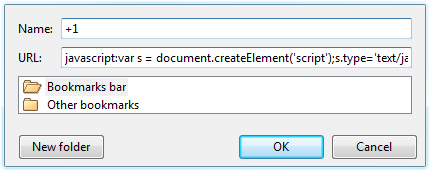
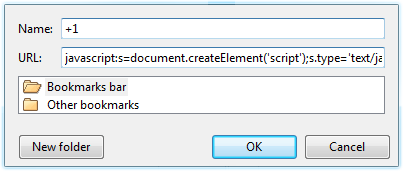
added webkitUserSelect='none' improved mages

diff --git a/medium_(close_button).js b/medium_(close_button).js
@@ -1,1 +1,1 @@
-if(mpo=document.getElementById('myplusone'))mpo.style.display=(mpo.style.display=='block'?'none':'block');else{bgs="background:rgb(174,188,191);background:-moz-linear-gradient(top,rgba(174,188,191,1)0%,rgba(110,119,116,1)50%,rgba(10,14,10,1)51%,rgba(10,8,9,1)100%);background:-webkit-gradient(linear,left top,left bottom,color-stop(0%,rgba(174,188,191,1)),color-stop(50%,rgba(110,119,116,1)),color-stop(51%,rgba(10,14,10,1)),color-stop(100%,rgba(10,8,9,1)));background:-webkit-linear-gradient(top,rgba(174,188,191,1)0%,rgba(110,119,116,1)50%,rgba(10,14,10,1)51%,rgba(10,8,9,1)100%);background:-o-linear-gradient(top,rgba(174,188,191,1)0%,rgba(110,119,116,1)50%,rgba(10,14,10,1)51%,rgba(10,8,9,1)100%);background:-ms-linear-gradient(top,rgba(174,188,191,1)0%,rgba(110,119,116,1)50%,rgba(10,14,10,1)51%,rgba(10,8,9,1)100%);filter:progid:DXImageTransform.Microsoft.gradient(startColorstr='#aebcbf',endColorstr='#0a0809',GradientType=0);background:linear-gradient(top,rgba(174,188,191,1)0%,rgba(110,119,116,1)50%,rgba(10,14,10,1)51%,rgba(10,8,9,1)100%);";bgsx="background:rgb(243,197,189);background:-moz-linear-gradient(top,rgba(243,197,189,1)0%,rgba(232,108,87,1)50%,rgba(234,40,3,1)51%,rgba(255,102,0,1)75%,rgba(199,34,0,1)100%);background:-webkit-gradient(linear,left top,left bottom,color-stop(0%,rgba(243,197,189,1)),color-stop(50%,rgba(232,108,87,1)),color-stop(51%,rgba(234,40,3,1)),color-stop(75%,rgba(255,102,0,1)),color-stop(100%,rgba(199,34,0,1)));background:-webkit-linear-gradient(top,rgba(243,197,189,1)0%,rgba(232,108,87,1)50%,rgba(234,40,3,1)51%,rgba(255,102,0,1)75%,rgba(199,34,0,1)100%);background:-o-linear-gradient(top,rgba(243,197,189,1)0%,rgba(232,108,87,1)50%,rgba(234,40,3,1)51%,rgba(255,102,0,1)75%,rgba(199,34,0,1)100%);background:-ms-linear-gradient(top,rgba(243,197,189,1)0%,rgba(232,108,87,1)50%,rgba(234,40,3,1)51%,rgba(255,102,0,1)75%,rgba(199,34,0,1)100%);filter:progid:DXImageTransform.Microsoft.gradient(startColorstr='#f3c5bd',endColorstr='#c72200',GradientType=0);background:linear-gradient(top,rgba(243,197,189,1)0%,rgba(232,108,87,1)50%,rgba(234,40,3,1)51%,rgba(255,102,0,1)75%,rgba(199,34,0,1)100%);";div=document.createElement('div');div.id='myplusone';div.style.cssText=bgs;div.style.display='block';div.style.position='fixed';div.style.top='8px';div.style.right='8px';div.style.zIndex='9999';div.style.padding='5px';e=document.createElement('g:plusone');e.setAttribute('size','medium');div.appendChild(e);x=document.createElement('div');x.style.cssText=bgsx;x.style.fontFamily='Arial';x.style.color='#FFFFFF';x.style.border='1px solid #FFFFFF';x.style.fontSize='12px';x.style.position='fixed';x.style.top='0px';x.style.right='0px';x.style.fontWeight='bold';x.style.cursor='pointer';x.innerHTML='x';x.onclick=function(){div.style.display='none';};div.appendChild(x);document.body.appendChild(div);e=window.document.createElement('script');e.setAttribute('src','https://apis.google.com/js/plusone.js');e.innerHTML='{lang: \'en-GB\'}';document.head.appendChild(e);}
+if(mpo=document.getElementById('myplusone'))mpo.style.display=(mpo.style.display=='block'?'none':'block');else{bgs="background:rgb(174,188,191);background:-moz-linear-gradient(top,rgba(174,188,191,1)0%,rgba(110,119,116,1)50%,rgba(10,14,10,1)51%,rgba(10,8,9,1)100%);background:-webkit-gradient(linear,left top,left bottom,color-stop(0%,rgba(174,188,191,1)),color-stop(50%,rgba(110,119,116,1)),color-stop(51%,rgba(10,14,10,1)),color-stop(100%,rgba(10,8,9,1)));background:-webkit-linear-gradient(top,rgba(174,188,191,1)0%,rgba(110,119,116,1)50%,rgba(10,14,10,1)51%,rgba(10,8,9,1)100%);background:-o-linear-gradient(top,rgba(174,188,191,1)0%,rgba(110,119,116,1)50%,rgba(10,14,10,1)51%,rgba(10,8,9,1)100%);background:-ms-linear-gradient(top,rgba(174,188,191,1)0%,rgba(110,119,116,1)50%,rgba(10,14,10,1)51%,rgba(10,8,9,1)100%);filter:progid:DXImageTransform.Microsoft.gradient(startColorstr='#aebcbf',endColorstr='#0a0809',GradientType=0);background:linear-gradient(top,rgba(174,188,191,1)0%,rgba(110,119,116,1)50%,rgba(10,14,10,1)51%,rgba(10,8,9,1)100%);";bgsx="background:rgb(243,197,189);background:-moz-linear-gradient(top,rgba(243,197,189,1)0%,rgba(232,108,87,1)50%,rgba(234,40,3,1)51%,rgba(255,102,0,1)75%,rgba(199,34,0,1)100%);background:-webkit-gradient(linear,left top,left bottom,color-stop(0%,rgba(243,197,189,1)),color-stop(50%,rgba(232,108,87,1)),color-stop(51%,rgba(234,40,3,1)),color-stop(75%,rgba(255,102,0,1)),color-stop(100%,rgba(199,34,0,1)));background:-webkit-linear-gradient(top,rgba(243,197,189,1)0%,rgba(232,108,87,1)50%,rgba(234,40,3,1)51%,rgba(255,102,0,1)75%,rgba(199,34,0,1)100%);background:-o-linear-gradient(top,rgba(243,197,189,1)0%,rgba(232,108,87,1)50%,rgba(234,40,3,1)51%,rgba(255,102,0,1)75%,rgba(199,34,0,1)100%);background:-ms-linear-gradient(top,rgba(243,197,189,1)0%,rgba(232,108,87,1)50%,rgba(234,40,3,1)51%,rgba(255,102,0,1)75%,rgba(199,34,0,1)100%);filter:progid:DXImageTransform.Microsoft.gradient(startColorstr='#f3c5bd',endColorstr='#c72200',GradientType=0);background:linear-gradient(top,rgba(243,197,189,1)0%,rgba(232,108,87,1)50%,rgba(234,40,3,1)51%,rgba(255,102,0,1)75%,rgba(199,34,0,1)100%);";div=document.createElement('div');div.id='myplusone';div.style.cssText=bgs;div.style.display='block';div.style.position='fixed';div.style.top='8px';div.style.right='8px';div.style.zIndex='9999';div.style.padding='5px';div.style.webkitUserSelect='none';e=document.createElement('g:plusone');e.setAttribute('size','medium');div.appendChild(e);x=document.createElement('div');x.style.cssText=bgsx;x.style.fontFamily='Arial';x.style.color='#FFFFFF';x.style.border='1px solid #FFFFFF';x.style.fontSize='12px';x.style.position='fixed';x.style.top='0px';x.style.right='0px';x.style.fontWeight='bold';x.style.cursor='pointer';x.innerHTML='x';x.onclick=function(){div.style.display='none';};div.appendChild(x);document.body.appendChild(div);e=window.document.createElement('script');e.setAttribute('src','https://apis.google.com/js/plusone.js');e.innerHTML='{lang: \'en-GB\'}';document.head.appendChild(e);}

diff --git a/small_(close_button).js b/small_(close_button).js
@@ -1,1 +1,1 @@
-if(mpo=document.getElementById('myplusone'))mpo.style.display=(mpo.style.display=='block'?'none':'block');else{bgs="background:rgb(174,188,191);background:-moz-linear-gradient(top,rgba(174,188,191,1)0%,rgba(110,119,116,1)50%,rgba(10,14,10,1)51%,rgba(10,8,9,1)100%);background:-webkit-gradient(linear,left top,left bottom,color-stop(0%,rgba(174,188,191,1)),color-stop(50%,rgba(110,119,116,1)),color-stop(51%,rgba(10,14,10,1)),color-stop(100%,rgba(10,8,9,1)));background:-webkit-linear-gradient(top,rgba(174,188,191,1)0%,rgba(110,119,116,1)50%,rgba(10,14,10,1)51%,rgba(10,8,9,1)100%);background:-o-linear-gradient(top,rgba(174,188,191,1)0%,rgba(110,119,116,1)50%,rgba(10,14,10,1)51%,rgba(10,8,9,1)100%);background:-ms-linear-gradient(top,rgba(174,188,191,1)0%,rgba(110,119,116,1)50%,rgba(10,14,10,1)51%,rgba(10,8,9,1)100%);filter:progid:DXImageTransform.Microsoft.gradient(startColorstr='#aebcbf',endColorstr='#0a0809',GradientType=0);background:linear-gradient(top,rgba(174,188,191,1)0%,rgba(110,119,116,1)50%,rgba(10,14,10,1)51%,rgba(10,8,9,1)100%);";bgsx="background:rgb(243,197,189);background:-moz-linear-gradient(top,rgba(243,197,189,1)0%,rgba(232,108,87,1)50%,rgba(234,40,3,1)51%,rgba(255,102,0,1)75%,rgba(199,34,0,1)100%);background:-webkit-gradient(linear,left top,left bottom,color-stop(0%,rgba(243,197,189,1)),color-stop(50%,rgba(232,108,87,1)),color-stop(51%,rgba(234,40,3,1)),color-stop(75%,rgba(255,102,0,1)),color-stop(100%,rgba(199,34,0,1)));background:-webkit-linear-gradient(top,rgba(243,197,189,1)0%,rgba(232,108,87,1)50%,rgba(234,40,3,1)51%,rgba(255,102,0,1)75%,rgba(199,34,0,1)100%);background:-o-linear-gradient(top,rgba(243,197,189,1)0%,rgba(232,108,87,1)50%,rgba(234,40,3,1)51%,rgba(255,102,0,1)75%,rgba(199,34,0,1)100%);background:-ms-linear-gradient(top,rgba(243,197,189,1)0%,rgba(232,108,87,1)50%,rgba(234,40,3,1)51%,rgba(255,102,0,1)75%,rgba(199,34,0,1)100%);filter:progid:DXImageTransform.Microsoft.gradient(startColorstr='#f3c5bd',endColorstr='#c72200',GradientType=0);background:linear-gradient(top,rgba(243,197,189,1)0%,rgba(232,108,87,1)50%,rgba(234,40,3,1)51%,rgba(255,102,0,1)75%,rgba(199,34,0,1)100%);";div=document.createElement('div');div.id='myplusone';div.style.cssText=bgs;div.style.display='block';div.style.position='fixed';div.style.top='8px';div.style.right='8px';div.style.zIndex='9999';div.style.padding='5px';e=document.createElement('g:plusone');e.setAttribute('size','small');div.appendChild(e);x=document.createElement('div');x.style.cssText=bgsx;x.style.fontFamily='Arial';x.style.color='#FFFFFF';x.style.border='1px solid #FFFFFF';x.style.fontSize='12px';x.style.position='fixed';x.style.top='0px';x.style.right='0px';x.style.fontWeight='bold';x.style.cursor='pointer';x.innerHTML='x';x.onclick=function(){div.style.display='none';};div.appendChild(x);document.body.appendChild(div);e=window.document.createElement('script');e.setAttribute('src','https://apis.google.com/js/plusone.js');e.innerHTML='{lang: \'en-GB\'}';document.head.appendChild(e);};
+if(mpo=document.getElementById('myplusone'))mpo.style.display=(mpo.style.display=='block'?'none':'block');else{bgs="background:rgb(174,188,191);background:-moz-linear-gradient(top,rgba(174,188,191,1)0%,rgba(110,119,116,1)50%,rgba(10,14,10,1)51%,rgba(10,8,9,1)100%);background:-webkit-gradient(linear,left top,left bottom,color-stop(0%,rgba(174,188,191,1)),color-stop(50%,rgba(110,119,116,1)),color-stop(51%,rgba(10,14,10,1)),color-stop(100%,rgba(10,8,9,1)));background:-webkit-linear-gradient(top,rgba(174,188,191,1)0%,rgba(110,119,116,1)50%,rgba(10,14,10,1)51%,rgba(10,8,9,1)100%);background:-o-linear-gradient(top,rgba(174,188,191,1)0%,rgba(110,119,116,1)50%,rgba(10,14,10,1)51%,rgba(10,8,9,1)100%);background:-ms-linear-gradient(top,rgba(174,188,191,1)0%,rgba(110,119,116,1)50%,rgba(10,14,10,1)51%,rgba(10,8,9,1)100%);filter:progid:DXImageTransform.Microsoft.gradient(startColorstr='#aebcbf',endColorstr='#0a0809',GradientType=0);background:linear-gradient(top,rgba(174,188,191,1)0%,rgba(110,119,116,1)50%,rgba(10,14,10,1)51%,rgba(10,8,9,1)100%);";bgsx="background:rgb(243,197,189);background:-moz-linear-gradient(top,rgba(243,197,189,1)0%,rgba(232,108,87,1)50%,rgba(234,40,3,1)51%,rgba(255,102,0,1)75%,rgba(199,34,0,1)100%);background:-webkit-gradient(linear,left top,left bottom,color-stop(0%,rgba(243,197,189,1)),color-stop(50%,rgba(232,108,87,1)),color-stop(51%,rgba(234,40,3,1)),color-stop(75%,rgba(255,102,0,1)),color-stop(100%,rgba(199,34,0,1)));background:-webkit-linear-gradient(top,rgba(243,197,189,1)0%,rgba(232,108,87,1)50%,rgba(234,40,3,1)51%,rgba(255,102,0,1)75%,rgba(199,34,0,1)100%);background:-o-linear-gradient(top,rgba(243,197,189,1)0%,rgba(232,108,87,1)50%,rgba(234,40,3,1)51%,rgba(255,102,0,1)75%,rgba(199,34,0,1)100%);background:-ms-linear-gradient(top,rgba(243,197,189,1)0%,rgba(232,108,87,1)50%,rgba(234,40,3,1)51%,rgba(255,102,0,1)75%,rgba(199,34,0,1)100%);filter:progid:DXImageTransform.Microsoft.gradient(startColorstr='#f3c5bd',endColorstr='#c72200',GradientType=0);background:linear-gradient(top,rgba(243,197,189,1)0%,rgba(232,108,87,1)50%,rgba(234,40,3,1)51%,rgba(255,102,0,1)75%,rgba(199,34,0,1)100%);";div=document.createElement('div');div.id='myplusone';div.style.cssText=bgs;div.style.display='block';div.style.position='fixed';div.style.top='8px';div.style.right='8px';div.style.zIndex='9999';div.style.padding='5px';div.style.webkitUserSelect='none';e=document.createElement('g:plusone');e.setAttribute('size','small');div.appendChild(e);x=document.createElement('div');x.style.cssText=bgsx;x.style.fontFamily='Arial';x.style.color='#FFFFFF';x.style.border='1px solid #FFFFFF';x.style.fontSize='12px';x.style.position='fixed';x.style.top='0px';x.style.right='0px';x.style.fontWeight='bold';x.style.cursor='pointer';x.innerHTML='x';x.onclick=function(){div.style.display='none';};div.appendChild(x);document.body.appendChild(div);e=window.document.createElement('script');e.setAttribute('src','https://apis.google.com/js/plusone.js');e.innerHTML='{lang: \'en-GB\'}';document.head.appendChild(e);};

diff --git a/tall_(close_button).js b/tall_(close_button).js
@@ -1,1 +1,1 @@
-if(mpo=document.getElementById('myplusone'))mpo.style.display=(mpo.style.display=='block'?'none':'block');else{bgs="background:rgb(174,188,191);background:-moz-linear-gradient(top,rgba(174,188,191,1)0%,rgba(110,119,116,1)50%,rgba(10,14,10,1)51%,rgba(10,8,9,1)100%);background:-webkit-gradient(linear,left top,left bottom,color-stop(0%,rgba(174,188,191,1)),color-stop(50%,rgba(110,119,116,1)),color-stop(51%,rgba(10,14,10,1)),color-stop(100%,rgba(10,8,9,1)));background:-webkit-linear-gradient(top,rgba(174,188,191,1)0%,rgba(110,119,116,1)50%,rgba(10,14,10,1)51%,rgba(10,8,9,1)100%);background:-o-linear-gradient(top,rgba(174,188,191,1)0%,rgba(110,119,116,1)50%,rgba(10,14,10,1)51%,rgba(10,8,9,1)100%);background:-ms-linear-gradient(top,rgba(174,188,191,1)0%,rgba(110,119,116,1)50%,rgba(10,14,10,1)51%,rgba(10,8,9,1)100%);filter:progid:DXImageTransform.Microsoft.gradient(startColorstr='#aebcbf',endColorstr='#0a0809',GradientType=0);background:linear-gradient(top,rgba(174,188,191,1)0%,rgba(110,119,116,1)50%,rgba(10,14,10,1)51%,rgba(10,8,9,1)100%);";bgsx="background:rgb(243,197,189);background:-moz-linear-gradient(top,rgba(243,197,189,1)0%,rgba(232,108,87,1)50%,rgba(234,40,3,1)51%,rgba(255,102,0,1)75%,rgba(199,34,0,1)100%);background:-webkit-gradient(linear,left top,left bottom,color-stop(0%,rgba(243,197,189,1)),color-stop(50%,rgba(232,108,87,1)),color-stop(51%,rgba(234,40,3,1)),color-stop(75%,rgba(255,102,0,1)),color-stop(100%,rgba(199,34,0,1)));background:-webkit-linear-gradient(top,rgba(243,197,189,1)0%,rgba(232,108,87,1)50%,rgba(234,40,3,1)51%,rgba(255,102,0,1)75%,rgba(199,34,0,1)100%);background:-o-linear-gradient(top,rgba(243,197,189,1)0%,rgba(232,108,87,1)50%,rgba(234,40,3,1)51%,rgba(255,102,0,1)75%,rgba(199,34,0,1)100%);background:-ms-linear-gradient(top,rgba(243,197,189,1)0%,rgba(232,108,87,1)50%,rgba(234,40,3,1)51%,rgba(255,102,0,1)75%,rgba(199,34,0,1)100%);filter:progid:DXImageTransform.Microsoft.gradient(startColorstr='#f3c5bd',endColorstr='#c72200',GradientType=0);background:linear-gradient(top,rgba(243,197,189,1)0%,rgba(232,108,87,1)50%,rgba(234,40,3,1)51%,rgba(255,102,0,1)75%,rgba(199,34,0,1)100%);";div=document.createElement('div');div.id='myplusone';div.style.cssText=bgs;div.style.display='block';div.style.position='fixed';div.style.top='8px';div.style.right='8px';div.style.zIndex='9999';div.style.padding='5px';e=document.createElement('g:plusone');e.setAttribute('size','tall');div.appendChild(e);x=document.createElement('div');x.style.cssText=bgsx;x.style.fontFamily='Arial';x.style.color='#FFFFFF';x.style.border='1px solid #FFFFFF';x.style.fontSize='12px';x.style.position='fixed';x.style.top='0px';x.style.right='0px';x.style.fontWeight='bold';x.style.cursor='pointer';x.innerHTML='x';x.onclick=function(){div.style.display='none';};div.appendChild(x);document.body.appendChild(div);e=window.document.createElement('script');e.setAttribute('src','https://apis.google.com/js/plusone.js');e.innerHTML='{lang: \'en-GB\'}';document.head.appendChild(e);};
+if(mpo=document.getElementById('myplusone'))mpo.style.display=(mpo.style.display=='block'?'none':'block');else{bgs="background:rgb(174,188,191);background:-moz-linear-gradient(top,rgba(174,188,191,1)0%,rgba(110,119,116,1)50%,rgba(10,14,10,1)51%,rgba(10,8,9,1)100%);background:-webkit-gradient(linear,left top,left bottom,color-stop(0%,rgba(174,188,191,1)),color-stop(50%,rgba(110,119,116,1)),color-stop(51%,rgba(10,14,10,1)),color-stop(100%,rgba(10,8,9,1)));background:-webkit-linear-gradient(top,rgba(174,188,191,1)0%,rgba(110,119,116,1)50%,rgba(10,14,10,1)51%,rgba(10,8,9,1)100%);background:-o-linear-gradient(top,rgba(174,188,191,1)0%,rgba(110,119,116,1)50%,rgba(10,14,10,1)51%,rgba(10,8,9,1)100%);background:-ms-linear-gradient(top,rgba(174,188,191,1)0%,rgba(110,119,116,1)50%,rgba(10,14,10,1)51%,rgba(10,8,9,1)100%);filter:progid:DXImageTransform.Microsoft.gradient(startColorstr='#aebcbf',endColorstr='#0a0809',GradientType=0);background:linear-gradient(top,rgba(174,188,191,1)0%,rgba(110,119,116,1)50%,rgba(10,14,10,1)51%,rgba(10,8,9,1)100%);";bgsx="background:rgb(243,197,189);background:-moz-linear-gradient(top,rgba(243,197,189,1)0%,rgba(232,108,87,1)50%,rgba(234,40,3,1)51%,rgba(255,102,0,1)75%,rgba(199,34,0,1)100%);background:-webkit-gradient(linear,left top,left bottom,color-stop(0%,rgba(243,197,189,1)),color-stop(50%,rgba(232,108,87,1)),color-stop(51%,rgba(234,40,3,1)),color-stop(75%,rgba(255,102,0,1)),color-stop(100%,rgba(199,34,0,1)));background:-webkit-linear-gradient(top,rgba(243,197,189,1)0%,rgba(232,108,87,1)50%,rgba(234,40,3,1)51%,rgba(255,102,0,1)75%,rgba(199,34,0,1)100%);background:-o-linear-gradient(top,rgba(243,197,189,1)0%,rgba(232,108,87,1)50%,rgba(234,40,3,1)51%,rgba(255,102,0,1)75%,rgba(199,34,0,1)100%);background:-ms-linear-gradient(top,rgba(243,197,189,1)0%,rgba(232,108,87,1)50%,rgba(234,40,3,1)51%,rgba(255,102,0,1)75%,rgba(199,34,0,1)100%);filter:progid:DXImageTransform.Microsoft.gradient(startColorstr='#f3c5bd',endColorstr='#c72200',GradientType=0);background:linear-gradient(top,rgba(243,197,189,1)0%,rgba(232,108,87,1)50%,rgba(234,40,3,1)51%,rgba(255,102,0,1)75%,rgba(199,34,0,1)100%);";div=document.createElement('div');div.id='myplusone';div.style.cssText=bgs;div.style.display='block';div.style.position='fixed';div.style.top='8px';div.style.right='8px';div.style.zIndex='9999';div.style.padding='5px';div.style.webkitUserSelect='none';e=document.createElement('g:plusone');e.setAttribute('size','tall');div.appendChild(e);x=document.createElement('div');x.style.cssText=bgsx;x.style.fontFamily='Arial';x.style.color='#FFFFFF';x.style.border='1px solid #FFFFFF';x.style.fontSize='12px';x.style.position='fixed';x.style.top='0px';x.style.right='0px';x.style.fontWeight='bold';x.style.cursor='pointer';x.innerHTML='x';x.onclick=function(){div.style.display='none';};div.appendChild(x);document.body.appendChild(div);e=window.document.createElement('script');e.setAttribute('src','https://apis.google.com/js/plusone.js');e.innerHTML='{lang: \'en-GB\'}';document.head.appendChild(e);};

diff --git a/standard_(close_button).js b/standard_(close_button).js
@@ -1,1 +1,1 @@
-if(mpo=document.getElementById('myplusone'))mpo.style.display=(mpo.style.display=='block'?'none':'block');else{bgs="background:rgb(174,188,191);background:-moz-linear-gradient(top,rgba(174,188,191,1)0%,rgba(110,119,116,1)50%,rgba(10,14,10,1)51%,rgba(10,8,9,1)100%);background:-webkit-gradient(linear,left top,left bottom,color-stop(0%,rgba(174,188,191,1)),color-stop(50%,rgba(110,119,116,1)),color-stop(51%,rgba(10,14,10,1)),color-stop(100%,rgba(10,8,9,1)));background:-webkit-linear-gradient(top,rgba(174,188,191,1)0%,rgba(110,119,116,1)50%,rgba(10,14,10,1)51%,rgba(10,8,9,1)100%);background:-o-linear-gradient(top,rgba(174,188,191,1)0%,rgba(110,119,116,1)50%,rgba(10,14,10,1)51%,rgba(10,8,9,1)100%);background:-ms-linear-gradient(top,rgba(174,188,191,1)0%,rgba(110,119,116,1)50%,rgba(10,14,10,1)51%,rgba(10,8,9,1)100%);filter:progid:DXImageTransform.Microsoft.gradient(startColorstr='#aebcbf',endColorstr='#0a0809',GradientType=0);background:linear-gradient(top,rgba(174,188,191,1)0%,rgba(110,119,116,1)50%,rgba(10,14,10,1)51%,rgba(10,8,9,1)100%);";bgsx="background:rgb(243,197,189);background:-moz-linear-gradient(top,rgba(243,197,189,1)0%,rgba(232,108,87,1)50%,rgba(234,40,3,1)51%,rgba(255,102,0,1)75%,rgba(199,34,0,1)100%);background:-webkit-gradient(linear,left top,left bottom,color-stop(0%,rgba(243,197,189,1)),color-stop(50%,rgba(232,108,87,1)),color-stop(51%,rgba(234,40,3,1)),color-stop(75%,rgba(255,102,0,1)),color-stop(100%,rgba(199,34,0,1)));background:-webkit-linear-gradient(top,rgba(243,197,189,1)0%,rgba(232,108,87,1)50%,rgba(234,40,3,1)51%,rgba(255,102,0,1)75%,rgba(199,34,0,1)100%);background:-o-linear-gradient(top,rgba(243,197,189,1)0%,rgba(232,108,87,1)50%,rgba(234,40,3,1)51%,rgba(255,102,0,1)75%,rgba(199,34,0,1)100%);background:-ms-linear-gradient(top,rgba(243,197,189,1)0%,rgba(232,108,87,1)50%,rgba(234,40,3,1)51%,rgba(255,102,0,1)75%,rgba(199,34,0,1)100%);filter:progid:DXImageTransform.Microsoft.gradient(startColorstr='#f3c5bd',endColorstr='#c72200',GradientType=0);background:linear-gradient(top,rgba(243,197,189,1)0%,rgba(232,108,87,1)50%,rgba(234,40,3,1)51%,rgba(255,102,0,1)75%,rgba(199,34,0,1)100%);";div=document.createElement('div');div.id='myplusone';div.style.cssText=bgs;div.style.display='block';div.style.position='fixed';div.style.top='8px';div.style.right='8px';div.style.zIndex='9999';div.style.padding='5px';e=document.createElement('g:plusone');div.appendChild(e);x=document.createElement('div');x.style.cssText=bgsx;x.style.fontFamily='Arial';x.style.color='#FFFFFF';x.style.border='1px solid #FFFFFF';x.style.fontSize='12px';x.style.position='fixed';x.style.top='0px';x.style.right='0px';x.style.fontWeight='bold';x.style.cursor='pointer';x.innerHTML='x';x.onclick=function(){div.style.display='none';};div.appendChild(x);document.body.appendChild(div);e=window.document.createElement('script');e.setAttribute('src','https://apis.google.com/js/plusone.js');e.innerHTML='{lang: \'en-GB\'}';document.head.appendChild(e);};
+if(mpo=document.getElementById('myplusone'))mpo.style.display=(mpo.style.display=='block'?'none':'block');else{bgs="background:rgb(174,188,191);background:-moz-linear-gradient(top,rgba(174,188,191,1)0%,rgba(110,119,116,1)50%,rgba(10,14,10,1)51%,rgba(10,8,9,1)100%);background:-webkit-gradient(linear,left top,left bottom,color-stop(0%,rgba(174,188,191,1)),color-stop(50%,rgba(110,119,116,1)),color-stop(51%,rgba(10,14,10,1)),color-stop(100%,rgba(10,8,9,1)));background:-webkit-linear-gradient(top,rgba(174,188,191,1)0%,rgba(110,119,116,1)50%,rgba(10,14,10,1)51%,rgba(10,8,9,1)100%);background:-o-linear-gradient(top,rgba(174,188,191,1)0%,rgba(110,119,116,1)50%,rgba(10,14,10,1)51%,rgba(10,8,9,1)100%);background:-ms-linear-gradient(top,rgba(174,188,191,1)0%,rgba(110,119,116,1)50%,rgba(10,14,10,1)51%,rgba(10,8,9,1)100%);filter:progid:DXImageTransform.Microsoft.gradient(startColorstr='#aebcbf',endColorstr='#0a0809',GradientType=0);background:linear-gradient(top,rgba(174,188,191,1)0%,rgba(110,119,116,1)50%,rgba(10,14,10,1)51%,rgba(10,8,9,1)100%);";bgsx="background:rgb(243,197,189);background:-moz-linear-gradient(top,rgba(243,197,189,1)0%,rgba(232,108,87,1)50%,rgba(234,40,3,1)51%,rgba(255,102,0,1)75%,rgba(199,34,0,1)100%);background:-webkit-gradient(linear,left top,left bottom,color-stop(0%,rgba(243,197,189,1)),color-stop(50%,rgba(232,108,87,1)),color-stop(51%,rgba(234,40,3,1)),color-stop(75%,rgba(255,102,0,1)),color-stop(100%,rgba(199,34,0,1)));background:-webkit-linear-gradient(top,rgba(243,197,189,1)0%,rgba(232,108,87,1)50%,rgba(234,40,3,1)51%,rgba(255,102,0,1)75%,rgba(199,34,0,1)100%);background:-o-linear-gradient(top,rgba(243,197,189,1)0%,rgba(232,108,87,1)50%,rgba(234,40,3,1)51%,rgba(255,102,0,1)75%,rgba(199,34,0,1)100%);background:-ms-linear-gradient(top,rgba(243,197,189,1)0%,rgba(232,108,87,1)50%,rgba(234,40,3,1)51%,rgba(255,102,0,1)75%,rgba(199,34,0,1)100%);filter:progid:DXImageTransform.Microsoft.gradient(startColorstr='#f3c5bd',endColorstr='#c72200',GradientType=0);background:linear-gradient(top,rgba(243,197,189,1)0%,rgba(232,108,87,1)50%,rgba(234,40,3,1)51%,rgba(255,102,0,1)75%,rgba(199,34,0,1)100%);";div=document.createElement('div');div.id='myplusone';div.style.cssText=bgs;div.style.display='block';div.style.position='fixed';div.style.top='8px';div.style.right='8px';div.style.zIndex='9999';div.style.padding='5px';div.style.webkitUserSelect='none';e=document.createElement('g:plusone');div.appendChild(e);x=document.createElement('div');x.style.cssText=bgsx;x.style.fontFamily='Arial';x.style.color='#FFFFFF';x.style.border='1px solid #FFFFFF';x.style.fontSize='12px';x.style.position='fixed';x.style.top='0px';x.style.right='0px';x.style.fontWeight='bold';x.style.cursor='pointer';x.innerHTML='x';x.onclick=function(){div.style.display='none';};div.appendChild(x);document.body.appendChild(div);e=window.document.createElement('script');e.setAttribute('src','https://apis.google.com/js/plusone.js');e.innerHTML='{lang: \'en-GB\'}';document.head.appendChild(e);};

diff --git a/medium_no_count.js b/medium_no_count.js
@@ -1,1 +1,1 @@
-if(mpo=document.getElementById('myplusone'))mpo.style.display=(mpo.style.display=='block'?'none':'block');else{bgs="background:rgb(174,188,191);background:-moz-linear-gradient(top,rgba(174,188,191,1)0%,rgba(110,119,116,1)50%,rgba(10,14,10,1)51%,rgba(10,8,9,1)100%);background:-webkit-gradient(linear,left top,left bottom,color-stop(0%,rgba(174,188,191,1)),color-stop(50%,rgba(110,119,116,1)),color-stop(51%,rgba(10,14,10,1)),color-stop(100%,rgba(10,8,9,1)));background:-webkit-linear-gradient(top,rgba(174,188,191,1)0%,rgba(110,119,116,1)50%,rgba(10,14,10,1)51%,rgba(10,8,9,1)100%);background:-o-linear-gradient(top,rgba(174,188,191,1)0%,rgba(110,119,116,1)50%,rgba(10,14,10,1)51%,rgba(10,8,9,1)100%);background:-ms-linear-gradient(top,rgba(174,188,191,1)0%,rgba(110,119,116,1)50%,rgba(10,14,10,1)51%,rgba(10,8,9,1)100%);filter:progid:DXImageTransform.Microsoft.gradient(startColorstr='#aebcbf',endColorstr='#0a0809',GradientType=0);background:linear-gradient(top,rgba(174,188,191,1)0%,rgba(110,119,116,1)50%,rgba(10,14,10,1)51%,rgba(10,8,9,1)100%);";div=document.createElement('div');div.id='myplusone';div.style.cssText=bgs;div.style.display='block';div.style.position='fixed';div.style.top='8px';div.style.right='8px';div.style.zIndex='9999';div.style.padding='5px';e=document.createElement('g:plusone');e.setAttribute('size','medium');e.setAttribute('count','false');div.appendChild(e);document.body.appendChild(div);e=window.document.createElement('script');e.setAttribute('src','https://apis.google.com/js/plusone.js');e.innerHTML='{lang: \'en-GB\'}';document.head.appendChild(e);};
+if(mpo=document.getElementById('myplusone'))mpo.style.display=(mpo.style.display=='block'?'none':'block');else{bgs="background:rgb(174,188,191);background:-moz-linear-gradient(top,rgba(174,188,191,1)0%,rgba(110,119,116,1)50%,rgba(10,14,10,1)51%,rgba(10,8,9,1)100%);background:-webkit-gradient(linear,left top,left bottom,color-stop(0%,rgba(174,188,191,1)),color-stop(50%,rgba(110,119,116,1)),color-stop(51%,rgba(10,14,10,1)),color-stop(100%,rgba(10,8,9,1)));background:-webkit-linear-gradient(top,rgba(174,188,191,1)0%,rgba(110,119,116,1)50%,rgba(10,14,10,1)51%,rgba(10,8,9,1)100%);background:-o-linear-gradient(top,rgba(174,188,191,1)0%,rgba(110,119,116,1)50%,rgba(10,14,10,1)51%,rgba(10,8,9,1)100%);background:-ms-linear-gradient(top,rgba(174,188,191,1)0%,rgba(110,119,116,1)50%,rgba(10,14,10,1)51%,rgba(10,8,9,1)100%);filter:progid:DXImageTransform.Microsoft.gradient(startColorstr='#aebcbf',endColorstr='#0a0809',GradientType=0);background:linear-gradient(top,rgba(174,188,191,1)0%,rgba(110,119,116,1)50%,rgba(10,14,10,1)51%,rgba(10,8,9,1)100%);";div=document.createElement('div');div.id='myplusone';div.style.cssText=bgs;div.style.display='block';div.style.position='fixed';div.style.top='8px';div.style.right='8px';div.style.zIndex='9999';div.style.padding='5px';div.style.webkitUserSelect='none';e=document.createElement('g:plusone');e.setAttribute('size','medium');e.setAttribute('count','false');div.appendChild(e);document.body.appendChild(div);e=window.document.createElement('script');e.setAttribute('src','https://apis.google.com/js/plusone.js');e.innerHTML='{lang: \'en-GB\'}';document.head.appendChild(e);};

diff --git a/small_no_count.js b/small_no_count.js
@@ -1,1 +1,1 @@
-if(mpo=document.getElementById('myplusone'))mpo.style.display=(mpo.style.display=='block'?'none':'block');else{bgs="background:rgb(174,188,191);background:-moz-linear-gradient(top,rgba(174,188,191,1)0%,rgba(110,119,116,1)50%,rgba(10,14,10,1)51%,rgba(10,8,9,1)100%);background:-webkit-gradient(linear,left top,left bottom,color-stop(0%,rgba(174,188,191,1)),color-stop(50%,rgba(110,119,116,1)),color-stop(51%,rgba(10,14,10,1)),color-stop(100%,rgba(10,8,9,1)));background:-webkit-linear-gradient(top,rgba(174,188,191,1)0%,rgba(110,119,116,1)50%,rgba(10,14,10,1)51%,rgba(10,8,9,1)100%);background:-o-linear-gradient(top,rgba(174,188,191,1)0%,rgba(110,119,116,1)50%,rgba(10,14,10,1)51%,rgba(10,8,9,1)100%);background:-ms-linear-gradient(top,rgba(174,188,191,1)0%,rgba(110,119,116,1)50%,rgba(10,14,10,1)51%,rgba(10,8,9,1)100%);filter:progid:DXImageTransform.Microsoft.gradient(startColorstr='#aebcbf',endColorstr='#0a0809',GradientType=0);background:linear-gradient(top,rgba(174,188,191,1)0%,rgba(110,119,116,1)50%,rgba(10,14,10,1)51%,rgba(10,8,9,1)100%);";div=document.createElement('div');div.id='myplusone';div.style.cssText=bgs;div.style.display='block';div.style.position='fixed';div.style.top='8px';div.style.right='8px';div.style.zIndex='9999';div.style.padding='5px';e=document.createElement('g:plusone');e.setAttribute('size','small');e.setAttribute('count','false');div.appendChild(e);document.body.appendChild(div);e=window.document.createElement('script');e.setAttribute('src','https://apis.google.com/js/plusone.js');e.innerHTML='{lang: \'en-GB\'}';document.head.appendChild(e);};
+if(mpo=document.getElementById('myplusone'))mpo.style.display=(mpo.style.display=='block'?'none':'block');else{bgs="background:rgb(174,188,191);background:-moz-linear-gradient(top,rgba(174,188,191,1)0%,rgba(110,119,116,1)50%,rgba(10,14,10,1)51%,rgba(10,8,9,1)100%);background:-webkit-gradient(linear,left top,left bottom,color-stop(0%,rgba(174,188,191,1)),color-stop(50%,rgba(110,119,116,1)),color-stop(51%,rgba(10,14,10,1)),color-stop(100%,rgba(10,8,9,1)));background:-webkit-linear-gradient(top,rgba(174,188,191,1)0%,rgba(110,119,116,1)50%,rgba(10,14,10,1)51%,rgba(10,8,9,1)100%);background:-o-linear-gradient(top,rgba(174,188,191,1)0%,rgba(110,119,116,1)50%,rgba(10,14,10,1)51%,rgba(10,8,9,1)100%);background:-ms-linear-gradient(top,rgba(174,188,191,1)0%,rgba(110,119,116,1)50%,rgba(10,14,10,1)51%,rgba(10,8,9,1)100%);filter:progid:DXImageTransform.Microsoft.gradient(startColorstr='#aebcbf',endColorstr='#0a0809',GradientType=0);background:linear-gradient(top,rgba(174,188,191,1)0%,rgba(110,119,116,1)50%,rgba(10,14,10,1)51%,rgba(10,8,9,1)100%);";div=document.createElement('div');div.id='myplusone';div.style.cssText=bgs;div.style.display='block';div.style.position='fixed';div.style.top='8px';div.style.right='8px';div.style.zIndex='9999';div.style.padding='5px';div.style.webkitUserSelect='none';e=document.createElement('g:plusone');e.setAttribute('size','small');e.setAttribute('count','false');div.appendChild(e);document.body.appendChild(div);e=window.document.createElement('script');e.setAttribute('src','https://apis.google.com/js/plusone.js');e.innerHTML='{lang: \'en-GB\'}';document.head.appendChild(e);};

diff --git a/medium.js b/medium.js
@@ -1,1 +1,1 @@
-if(mpo=document.getElementById('myplusone'))mpo.style.display=(mpo.style.display=='block'?'none':'block');else{bgs="background:rgb(174,188,191);background:-moz-linear-gradient(top,rgba(174,188,191,1)0%,rgba(110,119,116,1)50%,rgba(10,14,10,1)51%,rgba(10,8,9,1)100%);background:-webkit-gradient(linear,left top,left bottom,color-stop(0%,rgba(174,188,191,1)),color-stop(50%,rgba(110,119,116,1)),color-stop(51%,rgba(10,14,10,1)),color-stop(100%,rgba(10,8,9,1)));background:-webkit-linear-gradient(top,rgba(174,188,191,1)0%,rgba(110,119,116,1)50%,rgba(10,14,10,1)51%,rgba(10,8,9,1)100%);background:-o-linear-gradient(top,rgba(174,188,191,1)0%,rgba(110,119,116,1)50%,rgba(10,14,10,1)51%,rgba(10,8,9,1)100%);background:-ms-linear-gradient(top,rgba(174,188,191,1)0%,rgba(110,119,116,1)50%,rgba(10,14,10,1)51%,rgba(10,8,9,1)100%);filter:progid:DXImageTransform.Microsoft.gradient(startColorstr='#aebcbf',endColorstr='#0a0809',GradientType=0);background:linear-gradient(top,rgba(174,188,191,1)0%,rgba(110,119,116,1)50%,rgba(10,14,10,1)51%,rgba(10,8,9,1)100%);";div=document.createElement('div');div.id='myplusone';div.style.cssText=bgs;div.style.display='block';div.style.position='fixed';div.style.top='8px';div.style.right='8px';div.style.zIndex='9999';div.style.padding='5px';e=document.createElement('g:plusone');e.setAttribute('size','medium');div.appendChild(e);document.body.appendChild(div);e=window.document.createElement('script');e.setAttribute('src','https://apis.google.com/js/plusone.js');e.innerHTML='{lang: \'en-GB\'}';document.head.appendChild(e);};
+if(mpo=document.getElementById('myplusone'))mpo.style.display=(mpo.style.display=='block'?'none':'block');else{bgs="background:rgb(174,188,191);background:-moz-linear-gradient(top,rgba(174,188,191,1)0%,rgba(110,119,116,1)50%,rgba(10,14,10,1)51%,rgba(10,8,9,1)100%);background:-webkit-gradient(linear,left top,left bottom,color-stop(0%,rgba(174,188,191,1)),color-stop(50%,rgba(110,119,116,1)),color-stop(51%,rgba(10,14,10,1)),color-stop(100%,rgba(10,8,9,1)));background:-webkit-linear-gradient(top,rgba(174,188,191,1)0%,rgba(110,119,116,1)50%,rgba(10,14,10,1)51%,rgba(10,8,9,1)100%);background:-o-linear-gradient(top,rgba(174,188,191,1)0%,rgba(110,119,116,1)50%,rgba(10,14,10,1)51%,rgba(10,8,9,1)100%);background:-ms-linear-gradient(top,rgba(174,188,191,1)0%,rgba(110,119,116,1)50%,rgba(10,14,10,1)51%,rgba(10,8,9,1)100%);filter:progid:DXImageTransform.Microsoft.gradient(startColorstr='#aebcbf',endColorstr='#0a0809',GradientType=0);background:linear-gradient(top,rgba(174,188,191,1)0%,rgba(110,119,116,1)50%,rgba(10,14,10,1)51%,rgba(10,8,9,1)100%);";div=document.createElement('div');div.id='myplusone';div.style.cssText=bgs;div.style.display='block';div.style.position='fixed';div.style.top='8px';div.style.right='8px';div.style.zIndex='9999';div.style.padding='5px';div.style.webkitUserSelect='none';e=document.createElement('g:plusone');e.setAttribute('size','medium');div.appendChild(e);document.body.appendChild(div);e=window.document.createElement('script');e.setAttribute('src','https://apis.google.com/js/plusone.js');e.innerHTML='{lang: \'en-GB\'}';document.head.appendChild(e);};

diff --git a/standard_no_count.js b/standard_no_count.js
@@ -1,1 +1,1 @@
-if(mpo=document.getElementById('myplusone'))mpo.style.display=(mpo.style.display=='block'?'none':'block');else{bgs="background:rgb(174,188,191);background:-moz-linear-gradient(top,rgba(174,188,191,1)0%,rgba(110,119,116,1)50%,rgba(10,14,10,1)51%,rgba(10,8,9,1)100%);background:-webkit-gradient(linear,left top,left bottom,color-stop(0%,rgba(174,188,191,1)),color-stop(50%,rgba(110,119,116,1)),color-stop(51%,rgba(10,14,10,1)),color-stop(100%,rgba(10,8,9,1)));background:-webkit-linear-gradient(top,rgba(174,188,191,1)0%,rgba(110,119,116,1)50%,rgba(10,14,10,1)51%,rgba(10,8,9,1)100%);background:-o-linear-gradient(top,rgba(174,188,191,1)0%,rgba(110,119,116,1)50%,rgba(10,14,10,1)51%,rgba(10,8,9,1)100%);background:-ms-linear-gradient(top,rgba(174,188,191,1)0%,rgba(110,119,116,1)50%,rgba(10,14,10,1)51%,rgba(10,8,9,1)100%);filter:progid:DXImageTransform.Microsoft.gradient(startColorstr='#aebcbf',endColorstr='#0a0809',GradientType=0);background:linear-gradient(top,rgba(174,188,191,1)0%,rgba(110,119,116,1)50%,rgba(10,14,10,1)51%,rgba(10,8,9,1)100%);";div=document.createElement('div');div.id='myplusone';div.style.cssText=bgs;div.style.display='block';div.style.position='fixed';div.style.top='8px';div.style.right='8px';div.style.zIndex='9999';div.style.padding='5px';e=document.createElement('g:plusone');e.setAttribute('count','false');div.appendChild(e);document.body.appendChild(div);e=window.document.createElement('script');e.setAttribute('src','https://apis.google.com/js/plusone.js');e.innerHTML='{lang: \'en-GB\'}';document.head.appendChild(e);};
+if(mpo=document.getElementById('myplusone'))mpo.style.display=(mpo.style.display=='block'?'none':'block');else{bgs="background:rgb(174,188,191);background:-moz-linear-gradient(top,rgba(174,188,191,1)0%,rgba(110,119,116,1)50%,rgba(10,14,10,1)51%,rgba(10,8,9,1)100%);background:-webkit-gradient(linear,left top,left bottom,color-stop(0%,rgba(174,188,191,1)),color-stop(50%,rgba(110,119,116,1)),color-stop(51%,rgba(10,14,10,1)),color-stop(100%,rgba(10,8,9,1)));background:-webkit-linear-gradient(top,rgba(174,188,191,1)0%,rgba(110,119,116,1)50%,rgba(10,14,10,1)51%,rgba(10,8,9,1)100%);background:-o-linear-gradient(top,rgba(174,188,191,1)0%,rgba(110,119,116,1)50%,rgba(10,14,10,1)51%,rgba(10,8,9,1)100%);background:-ms-linear-gradient(top,rgba(174,188,191,1)0%,rgba(110,119,116,1)50%,rgba(10,14,10,1)51%,rgba(10,8,9,1)100%);filter:progid:DXImageTransform.Microsoft.gradient(startColorstr='#aebcbf',endColorstr='#0a0809',GradientType=0);background:linear-gradient(top,rgba(174,188,191,1)0%,rgba(110,119,116,1)50%,rgba(10,14,10,1)51%,rgba(10,8,9,1)100%);";div=document.createElement('div');div.id='myplusone';div.style.cssText=bgs;div.style.display='block';div.style.position='fixed';div.style.top='8px';div.style.right='8px';div.style.zIndex='9999';div.style.padding='5px';div.style.webkitUserSelect='none';e=document.createElement('g:plusone');e.setAttribute('count','false');div.appendChild(e);document.body.appendChild(div);e=window.document.createElement('script');e.setAttribute('src','https://apis.google.com/js/plusone.js');e.innerHTML='{lang: \'en-GB\'}';document.head.appendChild(e);};

diff --git a/small.js b/small.js
@@ -1,1 +1,1 @@
-if(mpo=document.getElementById('myplusone'))mpo.style.display=(mpo.style.display=='block'?'none':'block');else{bgs="background:rgb(174,188,191);background:-moz-linear-gradient(top,rgba(174,188,191,1)0%,rgba(110,119,116,1)50%,rgba(10,14,10,1)51%,rgba(10,8,9,1)100%);background:-webkit-gradient(linear,left top,left bottom,color-stop(0%,rgba(174,188,191,1)),color-stop(50%,rgba(110,119,116,1)),color-stop(51%,rgba(10,14,10,1)),color-stop(100%,rgba(10,8,9,1)));background:-webkit-linear-gradient(top,rgba(174,188,191,1)0%,rgba(110,119,116,1)50%,rgba(10,14,10,1)51%,rgba(10,8,9,1)100%);background:-o-linear-gradient(top,rgba(174,188,191,1)0%,rgba(110,119,116,1)50%,rgba(10,14,10,1)51%,rgba(10,8,9,1)100%);background:-ms-linear-gradient(top,rgba(174,188,191,1)0%,rgba(110,119,116,1)50%,rgba(10,14,10,1)51%,rgba(10,8,9,1)100%);filter:progid:DXImageTransform.Microsoft.gradient(startColorstr='#aebcbf',endColorstr='#0a0809',GradientType=0);background:linear-gradient(top,rgba(174,188,191,1)0%,rgba(110,119,116,1)50%,rgba(10,14,10,1)51%,rgba(10,8,9,1)100%);";div=document.createElement('div');div.id='myplusone';div.style.cssText=bgs;div.style.display='block';div.style.position='fixed';div.style.top='8px';div.style.right='8px';div.style.zIndex='9999';div.style.padding='5px';e=document.createElement('g:plusone');e.setAttribute('size','small');div.appendChild(e);document.body.appendChild(div);e=window.document.createElement('script');e.setAttribute('src','https://apis.google.com/js/plusone.js');e.innerHTML='{lang: \'en-GB\'}';document.head.appendChild(e);};
+if(mpo=document.getElementById('myplusone'))mpo.style.display=(mpo.style.display=='block'?'none':'block');else{bgs="background:rgb(174,188,191);background:-moz-linear-gradient(top,rgba(174,188,191,1)0%,rgba(110,119,116,1)50%,rgba(10,14,10,1)51%,rgba(10,8,9,1)100%);background:-webkit-gradient(linear,left top,left bottom,color-stop(0%,rgba(174,188,191,1)),color-stop(50%,rgba(110,119,116,1)),color-stop(51%,rgba(10,14,10,1)),color-stop(100%,rgba(10,8,9,1)));background:-webkit-linear-gradient(top,rgba(174,188,191,1)0%,rgba(110,119,116,1)50%,rgba(10,14,10,1)51%,rgba(10,8,9,1)100%);background:-o-linear-gradient(top,rgba(174,188,191,1)0%,rgba(110,119,116,1)50%,rgba(10,14,10,1)51%,rgba(10,8,9,1)100%);background:-ms-linear-gradient(top,rgba(174,188,191,1)0%,rgba(110,119,116,1)50%,rgba(10,14,10,1)51%,rgba(10,8,9,1)100%);filter:progid:DXImageTransform.Microsoft.gradient(startColorstr='#aebcbf',endColorstr='#0a0809',GradientType=0);background:linear-gradient(top,rgba(174,188,191,1)0%,rgba(110,119,116,1)50%,rgba(10,14,10,1)51%,rgba(10,8,9,1)100%);";div=document.createElement('div');div.id='myplusone';div.style.cssText=bgs;div.style.display='block';div.style.position='fixed';div.style.top='8px';div.style.right='8px';div.style.zIndex='9999';div.style.padding='5px';div.style.webkitUserSelect='none';e=document.createElement('g:plusone');e.setAttribute('size','small');div.appendChild(e);document.body.appendChild(div);e=window.document.createElement('script');e.setAttribute('src','https://apis.google.com/js/plusone.js');e.innerHTML='{lang: \'en-GB\'}';document.head.appendChild(e);};

diff --git a/tall.js b/tall.js
@@ -1,1 +1,1 @@
-if(mpo=document.getElementById('myplusone'))mpo.style.display=(mpo.style.display=='block'?'none':'block');else{bgs="background:rgb(174,188,191);background:-moz-linear-gradient(top,rgba(174,188,191,1)0%,rgba(110,119,116,1)50%,rgba(10,14,10,1)51%,rgba(10,8,9,1)100%);background:-webkit-gradient(linear,left top,left bottom,color-stop(0%,rgba(174,188,191,1)),color-stop(50%,rgba(110,119,116,1)),color-stop(51%,rgba(10,14,10,1)),color-stop(100%,rgba(10,8,9,1)));background:-webkit-linear-gradient(top,rgba(174,188,191,1)0%,rgba(110,119,116,1)50%,rgba(10,14,10,1)51%,rgba(10,8,9,1)100%);background:-o-linear-gradient(top,rgba(174,188,191,1)0%,rgba(110,119,116,1)50%,rgba(10,14,10,1)51%,rgba(10,8,9,1)100%);background:-ms-linear-gradient(top,rgba(174,188,191,1)0%,rgba(110,119,116,1)50%,rgba(10,14,10,1)51%,rgba(10,8,9,1)100%);filter:progid:DXImageTransform.Microsoft.gradient(startColorstr='#aebcbf',endColorstr='#0a0809',GradientType=0);background:linear-gradient(top,rgba(174,188,191,1)0%,rgba(110,119,116,1)50%,rgba(10,14,10,1)51%,rgba(10,8,9,1)100%);";div=document.createElement('div');div.id='myplusone';div.style.cssText=bgs;div.style.display='block';div.style.position='fixed';div.style.top='8px';div.style.right='8px';div.style.zIndex='9999';div.style.padding='5px';e=document.createElement('g:plusone');e.setAttribute('size','tall');div.appendChild(e);document.body.appendChild(div);e=window.document.createElement('script');e.setAttribute('src','https://apis.google.com/js/plusone.js');e.innerHTML='{lang: \'en-GB\'}';document.head.appendChild(e);};
+if(mpo=document.getElementById('myplusone'))mpo.style.display=(mpo.style.display=='block'?'none':'block');else{bgs="background:rgb(174,188,191);background:-moz-linear-gradient(top,rgba(174,188,191,1)0%,rgba(110,119,116,1)50%,rgba(10,14,10,1)51%,rgba(10,8,9,1)100%);background:-webkit-gradient(linear,left top,left bottom,color-stop(0%,rgba(174,188,191,1)),color-stop(50%,rgba(110,119,116,1)),color-stop(51%,rgba(10,14,10,1)),color-stop(100%,rgba(10,8,9,1)));background:-webkit-linear-gradient(top,rgba(174,188,191,1)0%,rgba(110,119,116,1)50%,rgba(10,14,10,1)51%,rgba(10,8,9,1)100%);background:-o-linear-gradient(top,rgba(174,188,191,1)0%,rgba(110,119,116,1)50%,rgba(10,14,10,1)51%,rgba(10,8,9,1)100%);background:-ms-linear-gradient(top,rgba(174,188,191,1)0%,rgba(110,119,116,1)50%,rgba(10,14,10,1)51%,rgba(10,8,9,1)100%);filter:progid:DXImageTransform.Microsoft.gradient(startColorstr='#aebcbf',endColorstr='#0a0809',GradientType=0);background:linear-gradient(top,rgba(174,188,191,1)0%,rgba(110,119,116,1)50%,rgba(10,14,10,1)51%,rgba(10,8,9,1)100%);";div=document.createElement('div');div.id='myplusone';div.style.cssText=bgs;div.style.display='block';div.style.position='fixed';div.style.top='8px';div.style.right='8px';div.style.zIndex='9999';div.style.padding='5px';div.style.webkitUserSelect='none';e=document.createElement('g:plusone');e.setAttribute('size','tall');div.appendChild(e);document.body.appendChild(div);e=window.document.createElement('script');e.setAttribute('src','https://apis.google.com/js/plusone.js');e.innerHTML='{lang: \'en-GB\'}';document.head.appendChild(e);};

diff --git a/standard.js b/standard.js
@@ -1,1 +1,1 @@
-if(mpo=document.getElementById('myplusone'))mpo.style.display=(mpo.style.display=='block'?'none':'block');else{bgs="background:rgb(174,188,191);background:-moz-linear-gradient(top,rgba(174,188,191,1)0%,rgba(110,119,116,1)50%,rgba(10,14,10,1)51%,rgba(10,8,9,1)100%);background:-webkit-gradient(linear,left top,left bottom,color-stop(0%,rgba(174,188,191,1)),color-stop(50%,rgba(110,119,116,1)),color-stop(51%,rgba(10,14,10,1)),color-stop(100%,rgba(10,8,9,1)));background:-webkit-linear-gradient(top,rgba(174,188,191,1)0%,rgba(110,119,116,1)50%,rgba(10,14,10,1)51%,rgba(10,8,9,1)100%);background:-o-linear-gradient(top,rgba(174,188,191,1)0%,rgba(110,119,116,1)50%,rgba(10,14,10,1)51%,rgba(10,8,9,1)100%);background:-ms-linear-gradient(top,rgba(174,188,191,1)0%,rgba(110,119,116,1)50%,rgba(10,14,10,1)51%,rgba(10,8,9,1)100%);filter:progid:DXImageTransform.Microsoft.gradient(startColorstr='#aebcbf',endColorstr='#0a0809',GradientType=0);background:linear-gradient(top,rgba(174,188,191,1)0%,rgba(110,119,116,1)50%,rgba(10,14,10,1)51%,rgba(10,8,9,1)100%);";div=document.createElement('div');div.id='myplusone';div.style.cssText=bgs;div.style.display='block';div.style.position='fixed';div.style.top='8px';div.style.right='8px';div.style.zIndex='9999';div.style.padding='5px';e=document.createElement('g:plusone');div.appendChild(e);document.body.appendChild(div);e=window.document.createElement('script');e.setAttribute('src','https://apis.google.com/js/plusone.js');e.innerHTML='{lang: \'en-GB\'}';document.head.appendChild(e);};
+if(mpo=document.getElementById('myplusone'))mpo.style.display=(mpo.style.display=='block'?'none':'block');else{bgs="background:rgb(174,188,191);background:-moz-linear-gradient(top,rgba(174,188,191,1)0%,rgba(110,119,116,1)50%,rgba(10,14,10,1)51%,rgba(10,8,9,1)100%);background:-webkit-gradient(linear,left top,left bottom,color-stop(0%,rgba(174,188,191,1)),color-stop(50%,rgba(110,119,116,1)),color-stop(51%,rgba(10,14,10,1)),color-stop(100%,rgba(10,8,9,1)));background:-webkit-linear-gradient(top,rgba(174,188,191,1)0%,rgba(110,119,116,1)50%,rgba(10,14,10,1)51%,rgba(10,8,9,1)100%);background:-o-linear-gradient(top,rgba(174,188,191,1)0%,rgba(110,119,116,1)50%,rgba(10,14,10,1)51%,rgba(10,8,9,1)100%);background:-ms-linear-gradient(top,rgba(174,188,191,1)0%,rgba(110,119,116,1)50%,rgba(10,14,10,1)51%,rgba(10,8,9,1)100%);filter:progid:DXImageTransform.Microsoft.gradient(startColorstr='#aebcbf',endColorstr='#0a0809',GradientType=0);background:linear-gradient(top,rgba(174,188,191,1)0%,rgba(110,119,116,1)50%,rgba(10,14,10,1)51%,rgba(10,8,9,1)100%);";div=document.createElement('div');div.id='myplusone';div.style.cssText=bgs;div.style.display='block';div.style.position='fixed';div.style.top='8px';div.style.right='8px';div.style.zIndex='9999';div.style.padding='5px';div.style.webkitUserSelect='none';e=document.createElement('g:plusone');div.appendChild(e);document.body.appendChild(div);e=window.document.createElement('script');e.setAttribute('src','https://apis.google.com/js/plusone.js');e.innerHTML='{lang: \'en-GB\'}';document.head.appendChild(e);};
